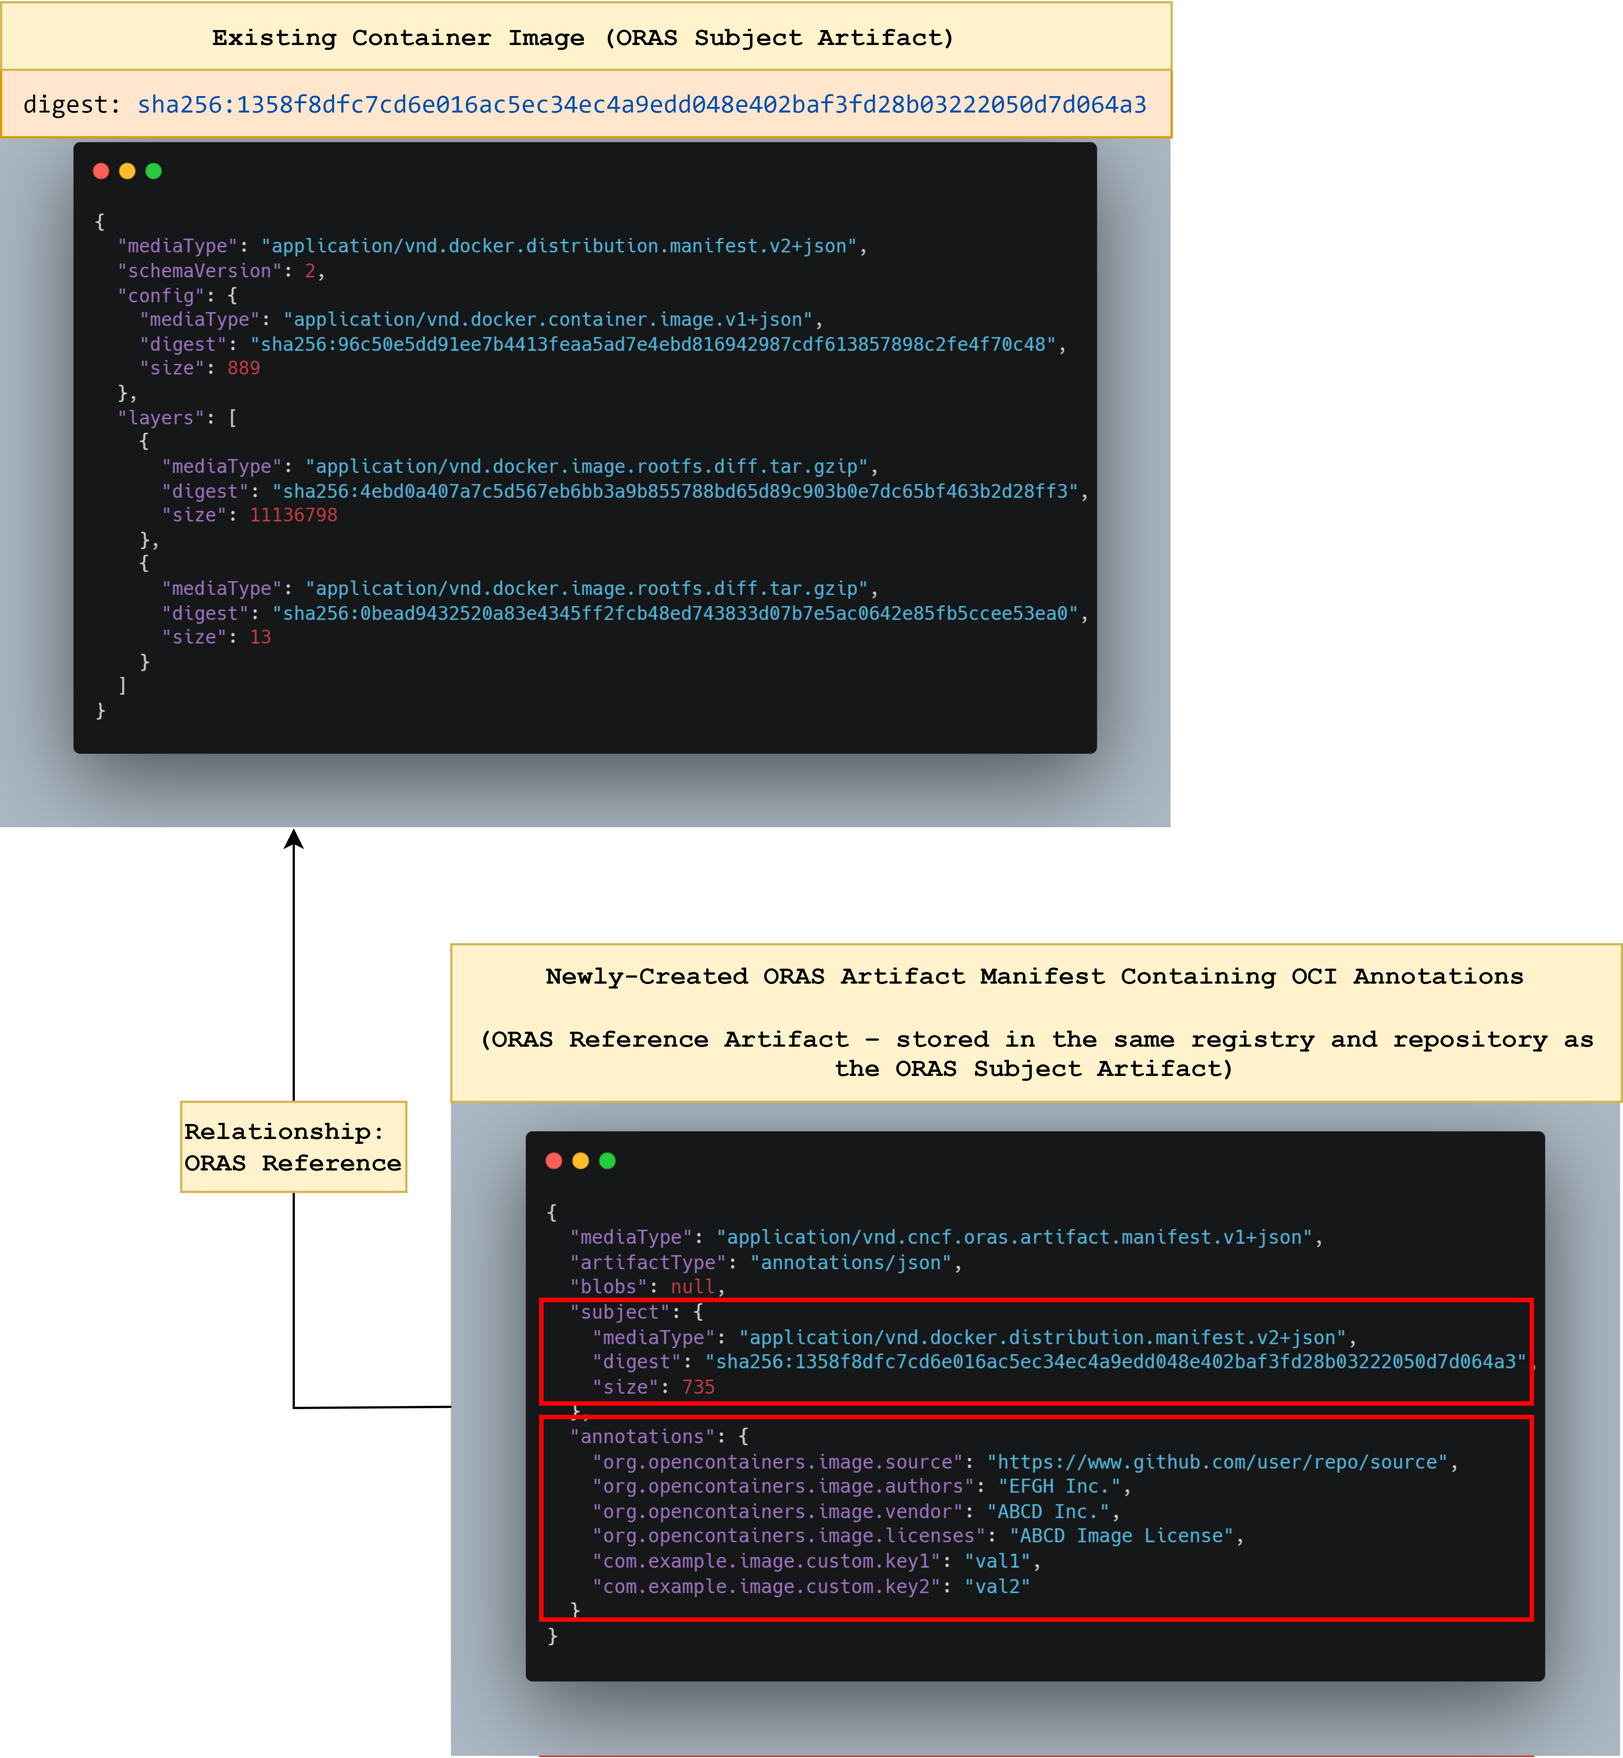
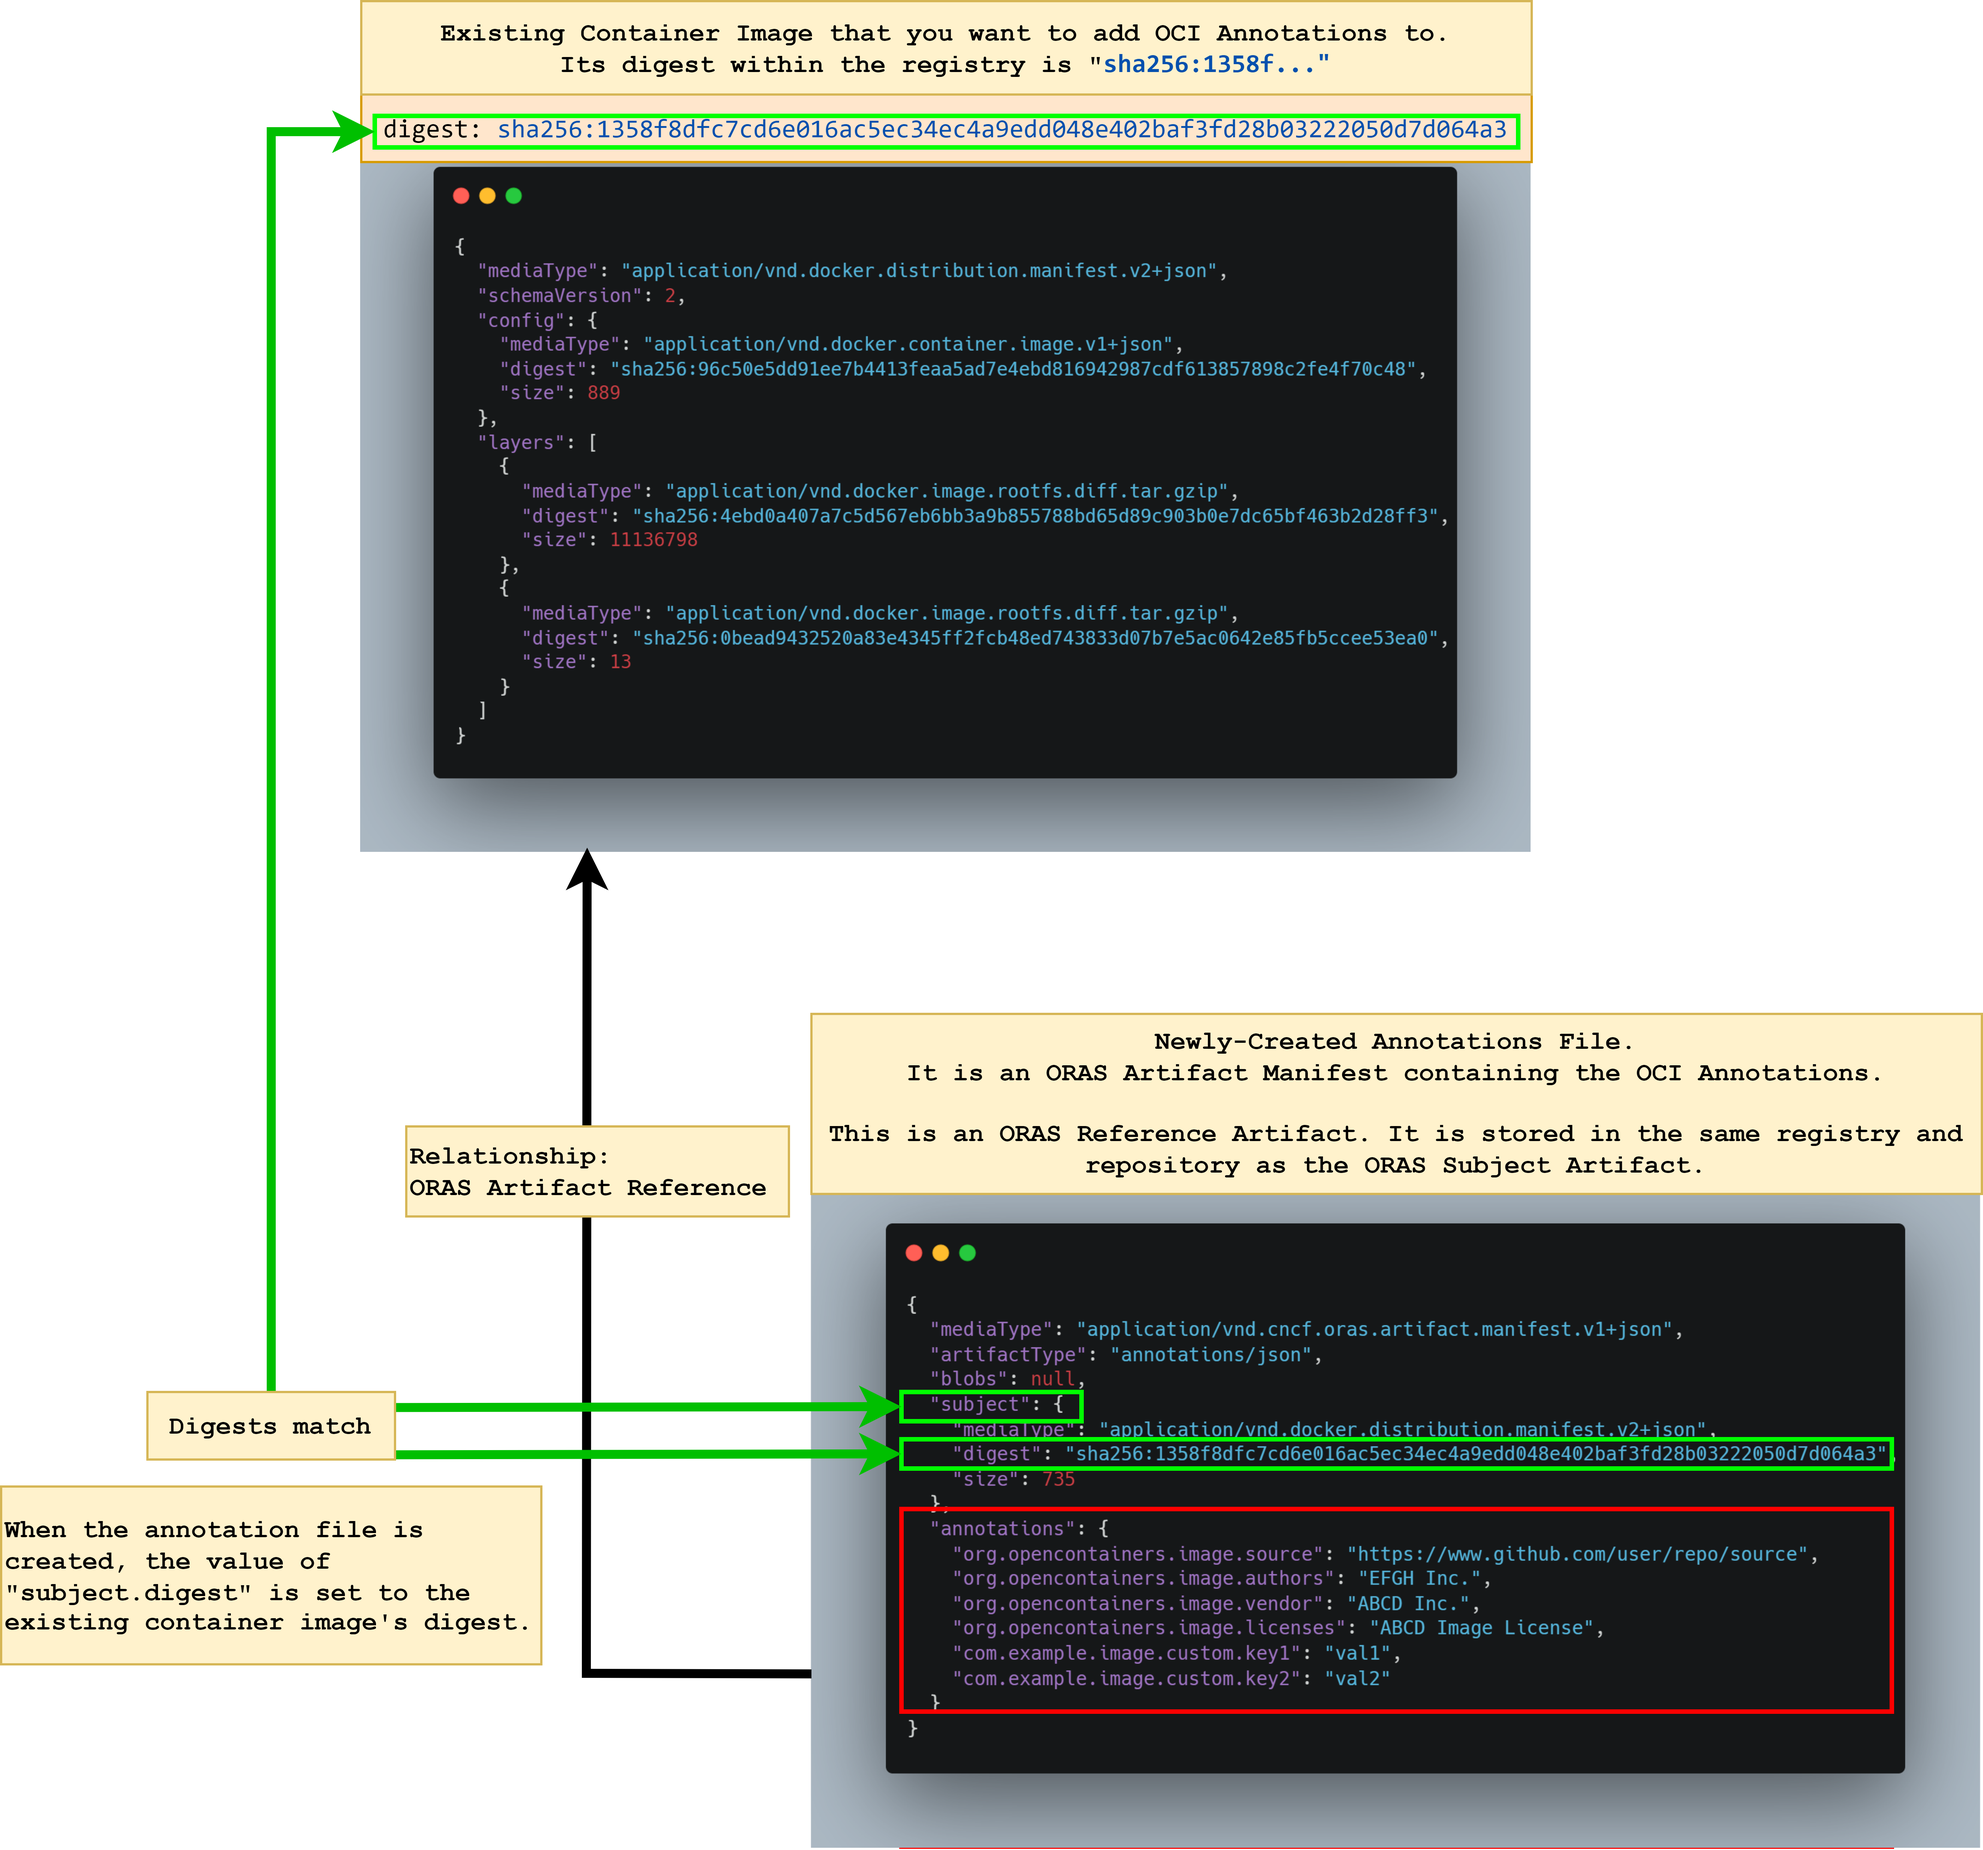
Simplify README and add separate DETAILED DOCS

diff --git a/README.md b/README.md
@@ -3,11 +3,40 @@
 ![Main Branch Build Workflow Badge](https://github.com/johnsonshi/annotate-registry-artifacts/actions/workflows/build.yml/badge.svg)
 ![Latest Release Workflow Badge](https://github.com/johnsonshi/annotate-registry-artifacts/actions/workflows/release.yml/badge.svg)
 
-Interact with the [OCI annotations](https://github.com/opencontainers/image-spec/blob/main/annotations.md) of an existing registry artifact (such as [container images](https://www.docker.com/resources/what-container/) or [OCI artifacts](https://github.com/opencontainers/artifacts)) by attaching an annotations file using [ORAS Reference Types](https://oras.land/cli/6_reference_types/).
+Attach [OCI annotations](https://github.com/opencontainers/image-spec/blob/main/annotations.md) to _**existing**_ registry artifacts (such as [container images](https://www.docker.com/resources/what-container/) or [OCI artifacts](https://github.com/opencontainers/artifacts)) by attaching an annotations file using [ORAS Reference Types](https://oras.land/cli/6_reference_types/).
 
-_**NOTE:**_ This only works for [registries supporting OCI Artifacts](https://oras.land/implementors/#registries-supporting-oci-artifacts).
+_**NOTE:**_ This only works for [registries supporting OCI Artifacts](https://oras.land/implementors/#registries-supporting-oci-artifacts), [ORAS Artifacts](https://github.com/oras-project/artifacts-spec), and [ORAS Artifact Reference Types](https://oras.land/cli/6_reference_types/).
+This tool has been tested with [Azure Container Registry](https://azure.microsoft.com/en-us/services/container-registry/).
 
-## Install
+## Scenario
+
+This tool is for you if you are a:
+
+* Registry Owner, Maintainer, or Administrator
+* Registry Artifacts – Container Image Builder, Maintainer, or Publisher
+
+Registry owners and artifact publishers may wish to add custom [OCI annotations](https://github.com/opencontainers/image-spec/blob/main/annotations.md) existing images in the registry. Common annotation scenarios include:
+
+* Annotation for image end-of-life date (EOL Date), which may or may not be known during image build time.
+* Annotation for image deprecation (marking an image as deprecated).
+* Annotation to note the date of a recent vulnerability scan.
+* Annotation marking an image as an "official image", "golden image", "preferred image", or "premium image".
+* Annotation for image compliance status, such as an image's compliance and certification to run in secure-cloud and government-cloud environments.
+
+By design, directly modifying or adding [OCI annotations](https://github.com/opencontainers/image-spec/blob/main/annotations.md) to an _existing_ registry artifact is not possible after an artifact (such as a container image) has been built.
+This is not possible as doing so would modify the hash digest of the existing registry artifact.
+
+Additionally, various build tools for container images currently _do not_ support adding OCI Annotations _during_ Dockerfile image build.
+
+This tool:
+
+* creates a new annotation file containing the OCI Annotations you wish to add to an _existing_ registry artifact,
+* pushes and stores the annotation file in the same registry and repository as the existing registry artifact,
+* links the annotation file and the existing artifact using [ORAS Artifact References](https://oras.land/cli/6_reference_types/).
+
+## Quick Start
+
+### Install
 
 To install, run the following commands.
 
@@ -17,54 +46,11 @@ chmod +x annotation
 sudo mv annotation /usr/local/bin
 ```
 
-## Commands
-
 ### Attach
 
 This command attaches a set of [OCI annotations](https://github.com/opencontainers/image-spec/blob/main/annotations.md) to an existing registry artifact (such as [container images](https://www.docker.com/resources/what-container/) or [OCI artifacts](https://github.com/opencontainers/artifacts)).
 
-#### Attach Command – Background and Overview
-
-Registry artifacts are immutable and cannot be tampered with post-build without changing the artifact digest (such as the `sha256` hash).
-As such, directly modifying or adding [OCI annotations](https://github.com/opencontainers/image-spec/blob/main/annotations.md) to an existing registry artifact is not possible after an artifact (such as a container image) is built.
-
-For example, the following is an existing container image that has already been built and stored in a registry.
-The container image is shown and represented as a [Docker Image Manifest V2 Schema 2 JSON Image Manifest](https://docs.docker.com/registry/spec/manifest-v2-2/).
-
-![container-image-manifest](./docs/images/container-image-manifest.png)
-
-It is not possible to directly modify or add OCI annotations to this container image without changing its `sha256` hash digest.
-
-That is, modifying existing registry artifacts and container images to add the following OCI annotations is _**NOT POSSIBLE AFTER AN ARTIFACT OR IMAGE HAS BEEN BUILT**_:
-
-![container-image-manifest-with-oci-annotations](./docs/images/container-image-manifest-with-oci-annotations.png)
-
-#### Attach Command – Technical Details
-
-To work around the tamper-proof `digest` of existing artifacts, the `attach` command is used to conceptually add OCI annotations to existing artifacts (including images) by creating a new registry artifact that refers to the existing artifact.
-
-* The `attach` command creates a separate [ORAS Artifact Manifest](https://github.com/oras-project/artifacts-spec/blob/main/artifact-manifest.md) that contains the [OCI annotations](https://github.com/opencontainers/image-spec/blob/main/annotations.md) passed to the `attach` command.
-* The newly-created ORAS Artifact Manifest (containing the OCI annotations) also has its `subject` property set to the `digest` of the existing registry artifact. The existing registry artifact is termed (in ORAS definitions) as a "referenced `subject` artifact".
-See [ORAS Artifact Manifest Properties](https://github.com/oras-project/artifacts-spec/blob/main/artifact-manifest.md#oras-artifact-manifest-properties) for more information on the `subject` property.
-* The newly-created ORAS Artifact Manifest (containing the OCI annotations) is said to be dependent upon the referenced `subject` artifact (the existing artifact the user wishes to conceptually add annotations to).
-* As part of this process, the newly-created ORAS Artifact Manifest (containing the OCI annotations) is pushed to the registry.
-It is pushed and stored in _**the same registry and the same repository**_ as the referenced `subject` artifact.
-
-#### Attach Command – Example and Usage
-
-For example, a user wishes to attach [OCI annotations](https://github.com/opencontainers/image-spec/blob/main/annotations.md) to the following container image (shown and represented as a [Docker Image Manifest V2 Schema 2 JSON Image Manifest](https://docs.docker.com/registry/spec/manifest-v2-2/)).
-
-The container image:
-
-* is stored in the registry `"$registry_url"` and the repository `"$repository_name"`.
-* has a `$digest` value of `sha256:1358f8dfc7cd6e016ac5ec34ec4a9edd048e402baf3fd28b03222050d7d064a3`
-
-![container-image-manifest](./docs/images/container-image-manifest.png)
-
-A user runs the following `attach` command to attach OCI annotations.
-
-_**NOTE:**_ [OCI Annotations](https://github.com/opencontainers/image-spec/blob/main/annotations.md) must be `string`-key `string`-value pairs separated by a colon and a space (`: `).
-Please read the [rules and conventions for OCI annotations](https://github.com/opencontainers/image-spec/blob/main/annotations.md#rules).
+#### Attach – Usage
 
 ```bash
 ./bin/annotation attach \
@@ -81,16 +67,10 @@ Please read the [rules and conventions for OCI annotations](https://github.com/o
   --annotation "com.example.image.custom.key2: val2"
 ```
 
-When the command is run, the following [ORAS Artifact Manifest](https://github.com/oras-project/artifacts-spec/blob/main/artifact-manifest.md) is created, pushed, and stored in the same registry and repository.
-
-Take note of the `annotations` field and the `subject` field.
-Notice how the `subject.digest` value matches the `$digest` specified in the `attach` command earlier.
-This newly-created ORAS Artifact Manifest is said to be "referring to" or "pointing to" the subject artifact referenced by the `subject.digest` in the same repository.
-
-![oras-artifact-manifest-containing-oci-annotations](./docs/images/oras-artifact-manifest-containing-oci-annotations.png)
-
-#### Attach Command – Relationship Diagram
-
-The following diagram describes the relationship between the existing artifact (the referenced `subject` artifact) and the newly-created ORAS Artifact Manifest.
+#### Attach – Result
 
 ![container-image-and-oras-artifact-manifest-with-oci-annotations-relationship](./docs/images/container-image-and-oras-artifact-manifest-with-oci-annotations-relationship.png)
+
+## Additional Resources
+
+For detailed explanations, please read the [detailed documentation page](./DETAILED_DOCS.md).

diff --git a/DETAILED_DOCS.md b/DETAILED_DOCS.md
@@ -1,0 +1,75 @@
+# Detailed Documentation
+
+## Background and Overview
+
+By design, registry artifacts are immutable and cannot be tampered with post-build without changing the artifact digest (the `sha256` hash).
+As such, directly modifying or adding [OCI annotations](https://github.com/opencontainers/image-spec/blob/main/annotations.md) to an existing registry artifact is not possible after an artifact (such as a container image) has been built.
+
+For example, the following is an existing container image that has already been built and stored in a registry.
+The container image is shown and represented as a [Docker Image Manifest V2 Schema 2 JSON Image Manifest](https://docs.docker.com/registry/spec/manifest-v2-2/).
+
+![container-image-manifest](./docs/images/container-image-manifest.png)
+
+It is not possible to directly modify or add OCI annotations to this container image without changing its `sha256` hash digest.
+
+That is, modifying existing registry artifacts and container images to add the following OCI annotations is _**NOT POSSIBLE AFTER AN ARTIFACT OR IMAGE HAS BEEN BUILT**_:
+
+![container-image-manifest-with-oci-annotations](./docs/images/container-image-manifest-with-oci-annotations.png)
+
+## Attach Command
+
+### Attach Command – Technical Details
+
+The `attach` command is used to conceptually add OCI annotations to existing artifacts (including images) by creating a new registry artifact that refers to the existing artifact.
+
+* The `attach` command creates a separate [ORAS Artifact Manifest](https://github.com/oras-project/artifacts-spec/blob/main/artifact-manifest.md) that contains the [OCI annotations](https://github.com/opencontainers/image-spec/blob/main/annotations.md) passed to the `attach` command.
+* The newly-created ORAS Artifact Manifest (containing the OCI annotations) also has its `subject` property set to the `digest` of the existing registry artifact. The existing registry artifact is termed (in ORAS definitions) as a "referenced `subject` artifact".
+See [ORAS Artifact Manifest Properties](https://github.com/oras-project/artifacts-spec/blob/main/artifact-manifest.md#oras-artifact-manifest-properties) for more information on the `subject` property.
+* The newly-created ORAS Artifact Manifest (containing the OCI annotations) is said to be dependent upon the referenced `subject` artifact (the existing artifact the user wishes to conceptually add annotations to).
+* As part of this process, the newly-created ORAS Artifact Manifest (containing the OCI annotations) is pushed to the registry.
+It is pushed and stored in _**the same registry and the same repository**_ as the referenced `subject` artifact.
+
+### Attach Command – Example and Usage
+
+For example, a user wishes to attach [OCI annotations](https://github.com/opencontainers/image-spec/blob/main/annotations.md) to the following container image (shown and represented as a [Docker Image Manifest V2 Schema 2 JSON Image Manifest](https://docs.docker.com/registry/spec/manifest-v2-2/)).
+
+The container image:
+
+* is stored in the registry `"$registry_url"` and the repository `"$repository_name"`.
+* has a `$digest` value of `sha256:1358f8dfc7cd6e016ac5ec34ec4a9edd048e402baf3fd28b03222050d7d064a3`
+
+![container-image-manifest](./docs/images/container-image-manifest.png)
+
+A user runs the following `attach` command to attach OCI annotations.
+
+_**NOTE:**_ [OCI Annotations](https://github.com/opencontainers/image-spec/blob/main/annotations.md) must be `string`-key `string`-value pairs separated by a colon and a space (`: `).
+Please read the [rules and conventions for OCI annotations](https://github.com/opencontainers/image-spec/blob/main/annotations.md#rules).
+
+```bash
+./bin/annotation attach \
+  --username "$registry_username" \
+  --password "$registry_password" \
+  --registry "$registry_url" \
+  --subject-repository "$repository_name" \
+  --subject-tag-or-digest "$digest" \
+  --annotation "org.opencontainers.image.source: https://www.github.com/user/repo/source" \
+  --annotation "org.opencontainers.image.authors: EFGH Inc." \
+  --annotation "org.opencontainers.image.vendor: ABCD Inc." \
+  --annotation "org.opencontainers.image.licenses: ABCD Image License" \
+  --annotation "com.example.image.custom.key1: val1" \
+  --annotation "com.example.image.custom.key2: val2"
+```
+
+When the command is run, the following [ORAS Artifact Manifest](https://github.com/oras-project/artifacts-spec/blob/main/artifact-manifest.md) is created, pushed, and stored in the same registry and repository.
+
+Take note of the `annotations` field and the `subject` field.
+Notice how the `subject.digest` value matches the `$digest` specified in the `attach` command earlier.
+This newly-created ORAS Artifact Manifest is said to be "referring to" or "pointing to" the subject artifact referenced by the `subject.digest` in the same repository.
+
+![oras-artifact-manifest-containing-oci-annotations](./docs/images/oras-artifact-manifest-containing-oci-annotations.png)
+
+### Attach Command – Result and Relationship Diagram
+
+The following diagram describes the relationship between the existing artifact (the referenced `subject` artifact) and the newly-created ORAS Artifact Manifest.
+
+![container-image-and-oras-artifact-manifest-with-oci-annotations-relationship](./docs/images/container-image-and-oras-artifact-manifest-with-oci-annotations-relationship.png)
